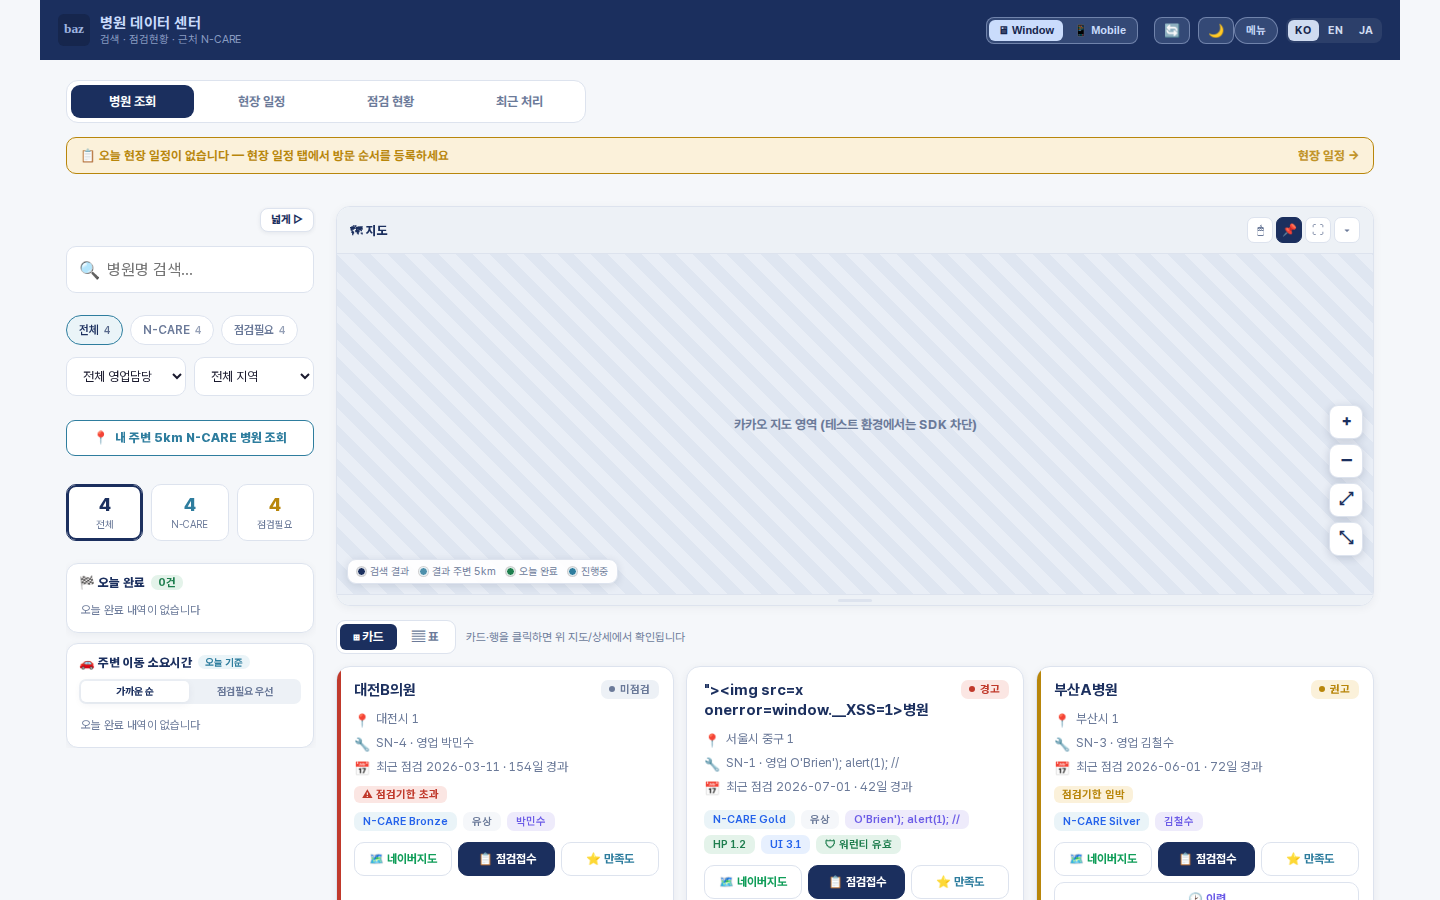
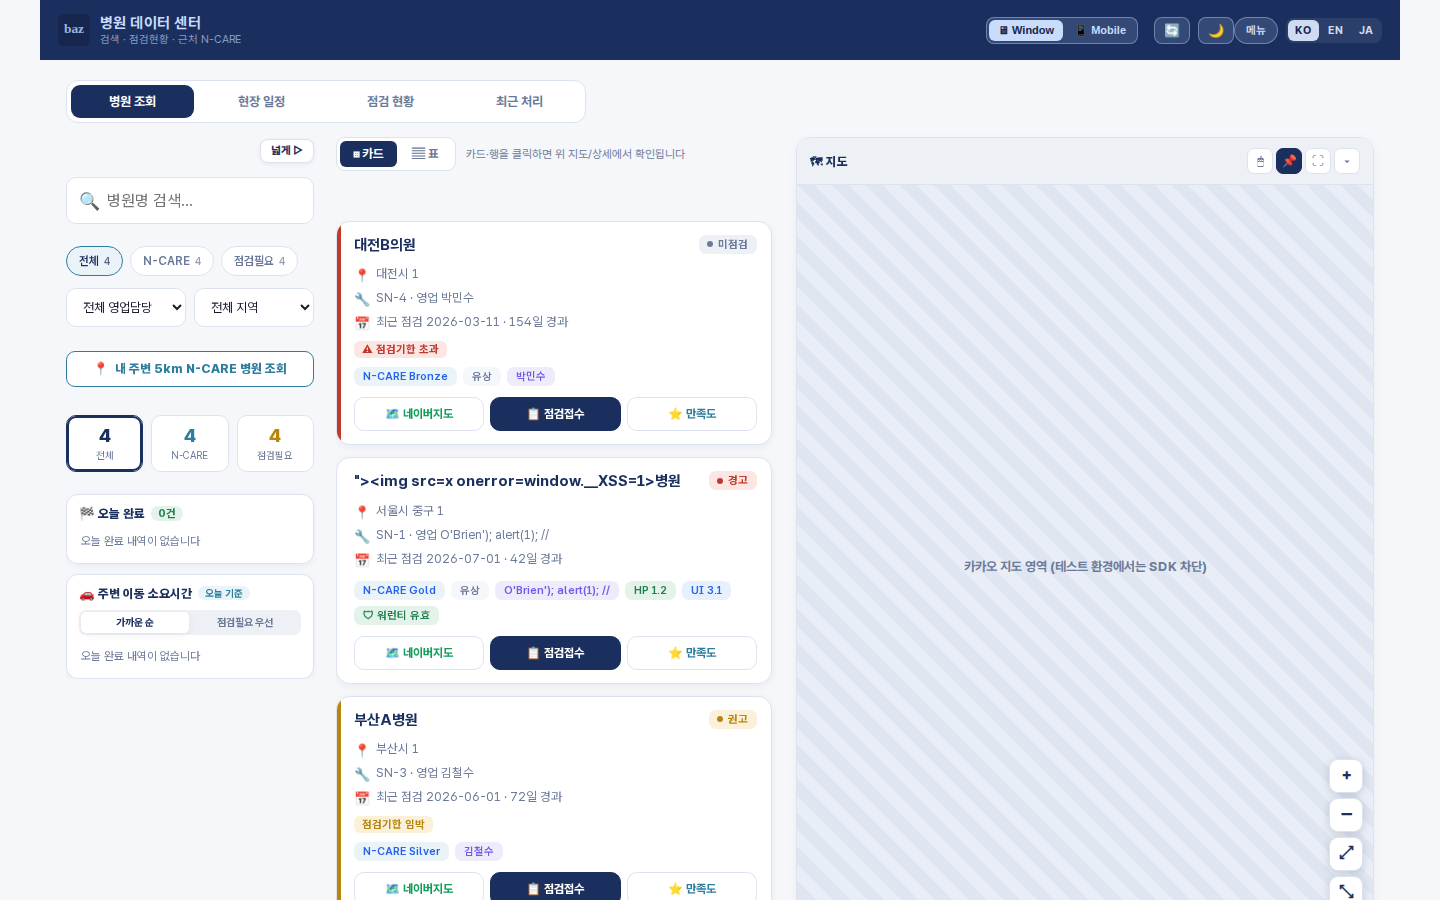
feat(hospital-pc): 1200px 이상 3열 데스크톱 작업공간
스크롤 충돌·지도 상태 문제를 먼저 해결한 뒤, 구조 개선을 별도 커밋으로 분리했다.

- 1200px 이상: 필터 250px · 결과 목록 380~480px · 지도 나머지 폭
  · #pcPane 에 display:contents 만 걸어 마크업을 옮기지 않는다(JS DOM 참조 불변)
  · 결과 목록만 독립 스크롤(overscroll-behavior:contain), 지도는 뷰포트 높이 고정
  · 표 뷰에서는 지도를 숨기고 결과가 남은 폭 전체를 사용
  · 창 높이 720px 이하에서는 지도 하단 컨트롤이 잘리지 않게 높이 재계산
- 980~1199px: 기존 2열(지도 위 · 결과 아래) 구조 유지, 필터 접기 가능
- 980px 미만: 기존 모바일 카드 구조 유지

측정값(Chromium 1600×900, filt-base):
  필터 250 · 결과 440(overflow:auto) · 지도 578×812, 가로 오버플로 0
  결과 목록을 굴려도 본문 scrollY 는 움직이지 않음

test/browser/hospital-pc-browser.mjs 에 3열 폭·독립 스크롤 검증 3건 추가 (18/18)

Claude-Session: https://claude.ai/code/session_01531pfNgNCSuwwqEhnygawG

diff --git a/hospital-pc.html b/hospital-pc.html
@@ -346,6 +346,49 @@
   body.mode-window #viewList>#pcPane{grid-column:2;min-width:0;}
   @media(max-width:980px){ body.mode-window #viewList{grid-template-columns:1fr;} body.mode-window #filterRail{position:static;max-height:none;overflow:visible;} }
 
+  /* ═══ 1200px 이상: 필터 · 결과 목록 · 지도 3열 작업공간 ═══════════════════
+     예전 구조는 "상단 sticky 지도 + 아래로 끝없이 이어지는 카드 목록" 이었다.
+     목록을 보려면 본문을 굴려야 하는데 그 스크롤이 지도(sticky)·필터 레일·
+     상세 패널과 뒤엉켜, 어디를 굴리는지 예측할 수 없었다.
+     → 넓은 화면에서는 스크롤 주인을 하나로 정한다: "결과 목록만 스크롤한다."
+        필터 레일과 지도는 뷰포트 높이 안에 고정되고, 본문은 거의 움직이지 않는다.
+     980~1199px 는 기존 2열(지도 위 · 결과 아래) 구조를 그대로 둔다. */
+  @media(min-width:1200px){
+    body.mode-window #viewList{grid-template-columns:250px minmax(380px,440px) minmax(420px,1fr);}
+    body.mode-window.filt-wide #viewList{grid-template-columns:440px minmax(380px,440px) minmax(380px,1fr);}
+    body.mode-window.filt-hide #viewList{grid-template-columns:44px minmax(380px,480px) minmax(420px,1fr);}
+    /* #pcPane 을 투명하게 만들어 자식(툴바·결과·지도)이 그대로 그리드 아이템이 된다.
+       마크업을 옮기지 않으므로 JS 쪽 DOM 참조는 하나도 바뀌지 않는다. */
+    body.mode-window #pcPane{display:contents;}
+    body.mode-window #filterRail{grid-column:1;grid-row:1 / span 2;}
+    body.mode-window #pcToolbar{grid-column:2;grid-row:1;margin:0 0 10px;}
+    body.mode-window #pcLeft{
+      grid-column:2;grid-row:2;
+      max-height:calc(100vh - var(--hdr-h,56px) - 132px);
+      overflow:auto;overscroll-behavior:contain;padding-right:4px;
+    }
+    body.mode-window #pcRight{
+      grid-column:3;grid-row:1 / span 2;
+      position:sticky;top:calc(var(--hdr-h,56px) + 12px);
+      height:calc(100vh - var(--hdr-h,56px) - 28px);
+      margin-bottom:0;
+    }
+    /* 지도가 뷰포트 높이를 채우므로 높이 드래그는 의미가 없다(접기·고정은 그대로 둔다) */
+    body.mode-window #pcMapGrip{display:none;}
+    /* 표 뷰: 지도를 숨기므로 결과가 남은 폭을 전부 쓴다 */
+    body.mode-window.pc-table #viewList{grid-template-columns:250px minmax(0,1fr);}
+    body.mode-window.pc-table.filt-wide #viewList{grid-template-columns:440px minmax(0,1fr);}
+    body.mode-window.pc-table.filt-hide #viewList{grid-template-columns:44px minmax(0,1fr);}
+    body.mode-window.pc-table #pcLeft{max-height:none;overflow:visible;padding-right:0;}
+    /* 전체화면은 position:fixed 로 그리드 밖에 나간다 */
+    body.mode-window.pc-mapfs #pcRight{grid-column:auto;grid-row:auto;}
+    /* 창 높이가 작을 때(노트북 768px 등) 지도 하단 컨트롤이 잘리지 않도록 최소 높이 보장 */
+    @media(max-height:720px){
+      body.mode-window #pcRight{height:calc(100vh - var(--hdr-h,56px) - 20px);min-height:320px;}
+      body.mode-window #pcLeft{max-height:calc(100vh - var(--hdr-h,56px) - 120px);}
+    }
+  }
+
   /* 탭 */
   .tabs{display:flex;gap:6px;margin-bottom:14px;background:var(--surface);border:1px solid var(--gray-line);border-radius:12px;padding:4px;}
   .tab{flex:1;text-align:center;padding:9px 6px;border-radius:9px;font-size:13px;font-weight:700;color:var(--text-muted);cursor:pointer;border:none;background:transparent;font-family:inherit;}
